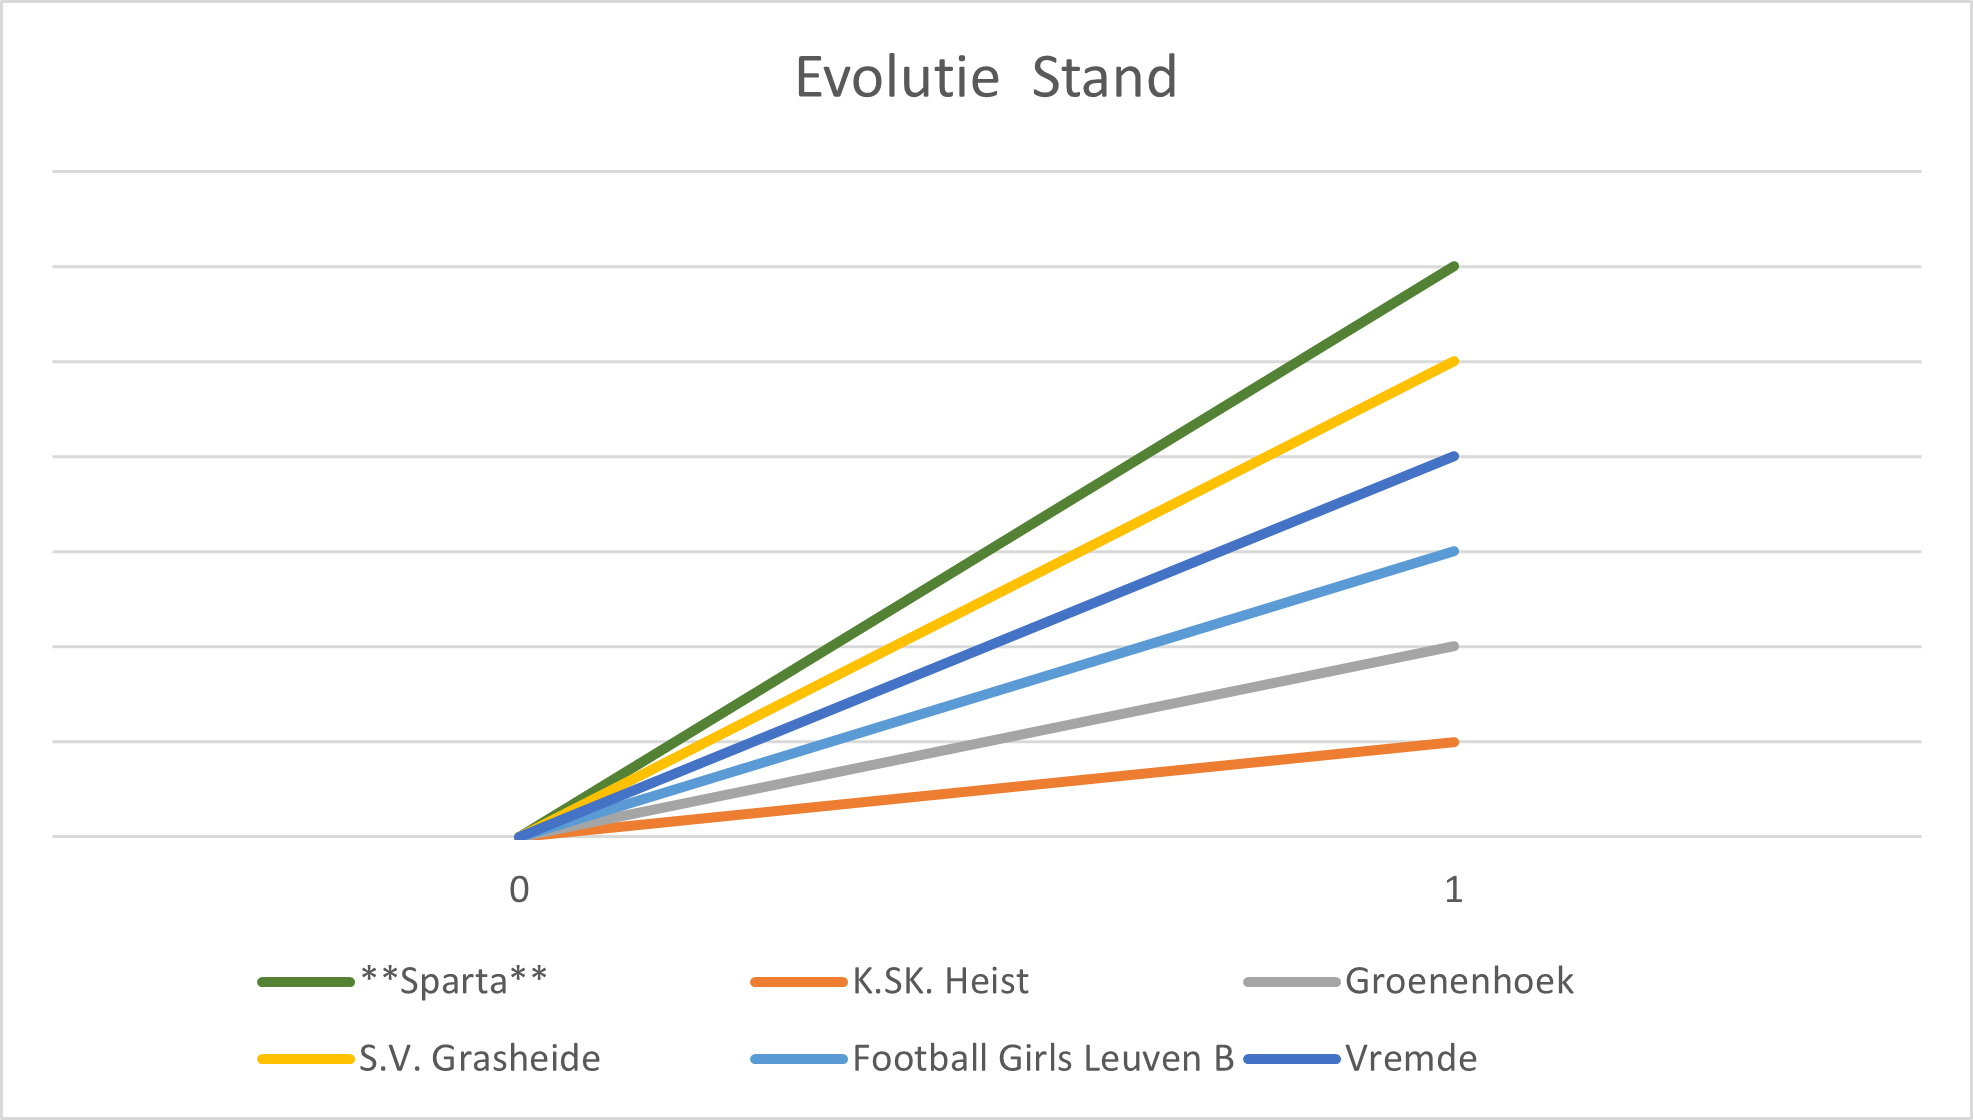
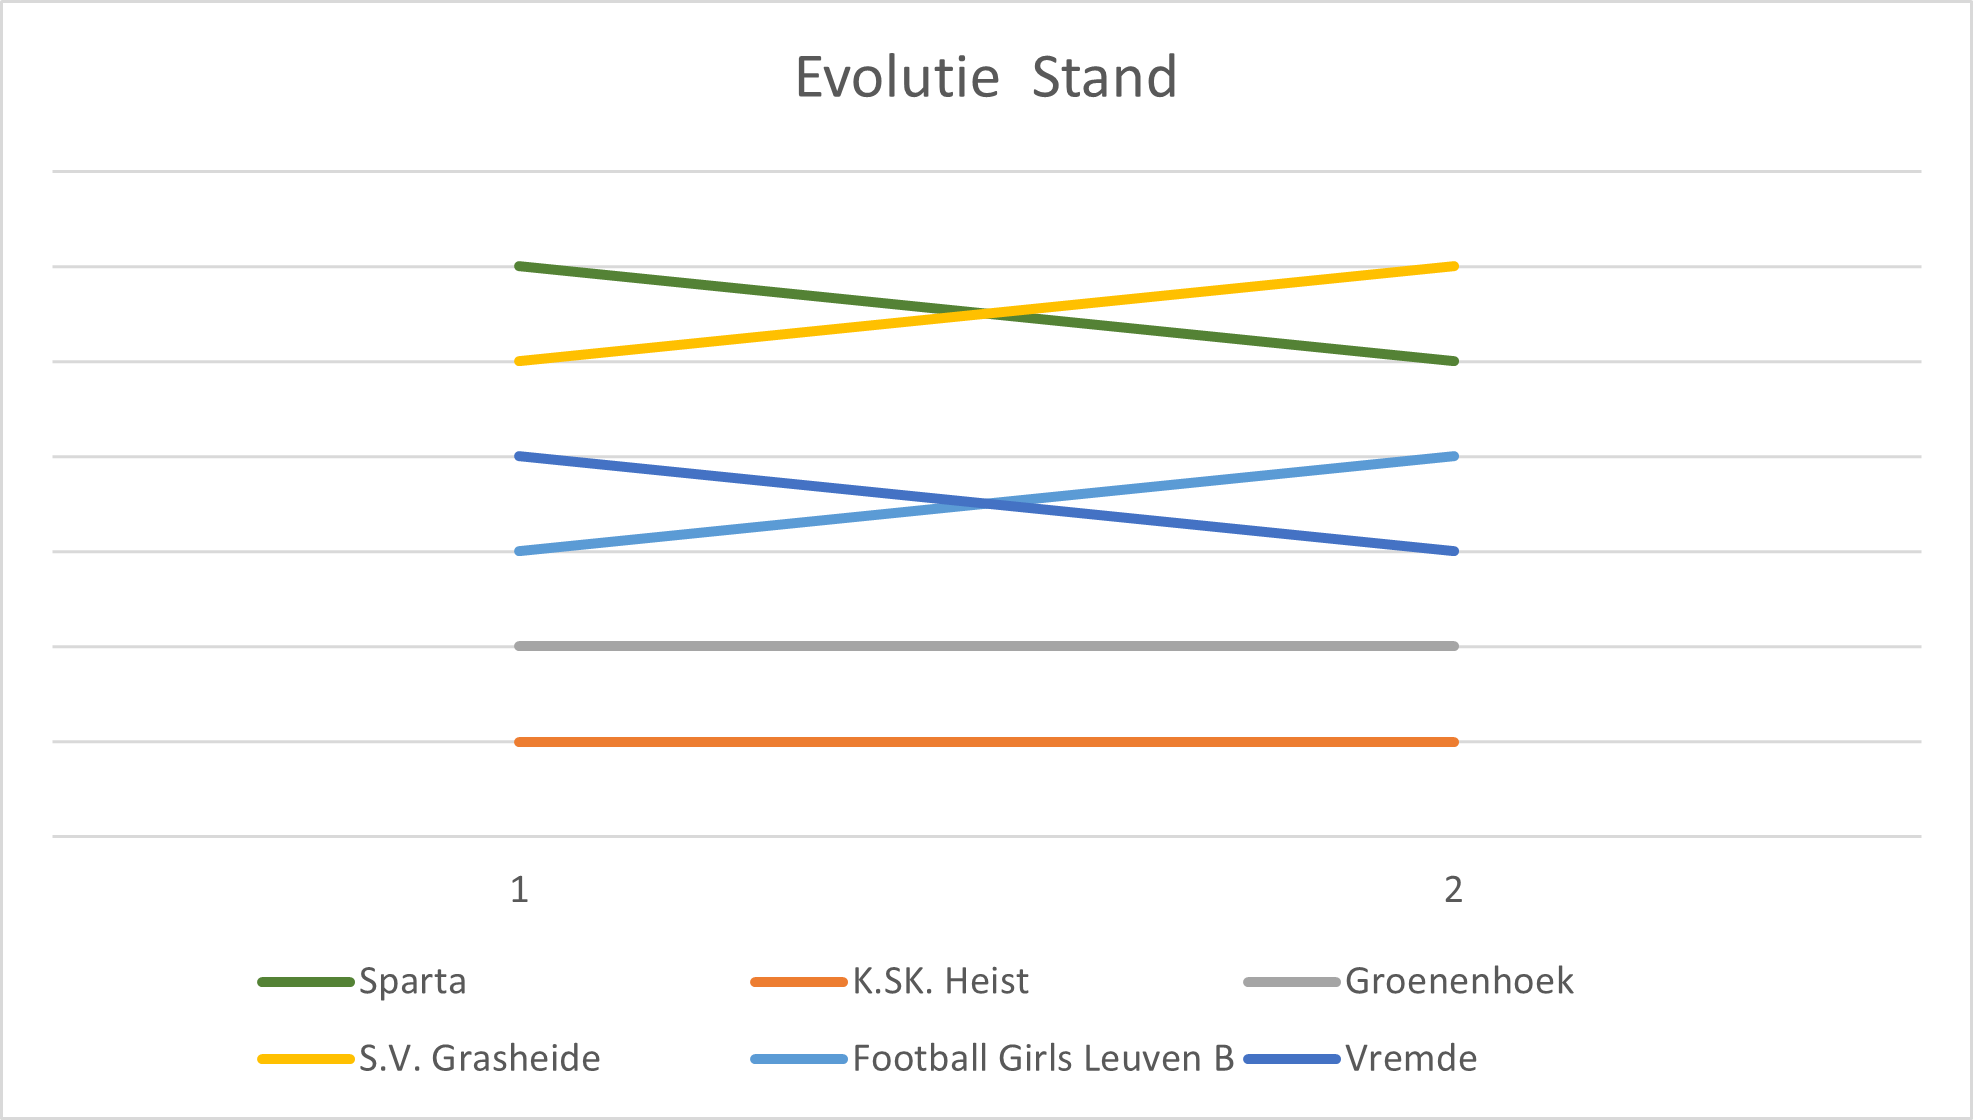
Update next match date, time, and location

Changed region(s): [[0.2473, 0.2188, 0.742, 0.75], [0.1855, 0.8438, 0.2783, 0.9062], [0.2473, 0.7812, 0.2783, 0.8125]]

diff --git a/2425/part1.md b/2425/part1.md
@@ -7,32 +7,40 @@ Op deze pagina vind je allerlei nuttige informatie & afspraken voor 2024/2025 - 
 
 ## Volgende wedstrijd info
 
-> Volgende wedstrijd is op zaterdag 7 september tegen Groenenhoek om 14.45 (13.45 ter plaatse)
+> Volgende wedstrijd is op zondag 15 september tegen Grasheide om 10.00 (09.00 ter plaatse)
+<br>[Adres](https://www.google.com/maps/dir/50.9633571,4.6060733/Galeistraat+5a,+2580+Putte/@51.0073582,4.4074975,40163m/data=!3m2!1e3!4b1!4m9!4m8!1m1!4e1!1m5!1m1!1s0x47c158867ffab109:0x94776ad0dff81be1!2m2!1d4.6506754!2d51.0401053?entry=ttu&g_ep=EgoyMDI0MDkwNC4wIKXMDSoASAFQAw%3D%3D): 
+<br>Galeistraat 5a
+<br>2580 Putte
 
 Selectie|Opmerking
----|---
-Féliz	|	
-Julia	|	
-Yanaika	|	
-Lize	|	
-Imke	|	
-Marie	|	
-Tessa	|	🍏Fruit en 🧺 Was
-Lisa	|	
-Gitte	|	
-Ella	|	
-Morane	|	
-Febe	|	
-Lore	|	🧤Keeper
-Margue	|	
-Nina	|	⭐Kapitein
+---     |---
+> Bekend vanaf woensdag
+<!-- Lore|🧤Keeper
+Morane|🍏Fruit en 🧺 Was
+Febe|
+Esmee|
+Yanaika|
+Gitte|
+Julia|
+Lize|
+Lisa|
+Imke|
+Margue|
+Nina|⭐Kapitein
+Ella|
+Marie|
+Féliz| -->
+
+
 
 Gaan niet mee|Opmerking
----|---
-Dee Dee|⚕Geblesseerd
-Esmee|⚕Geblesseerd
-Auke|⚕Geblesseerd
-Tille|⚕Geblesseerd
+---     |---
+> Bekend vanaf woensdag
+
+<!-- Auke|
+Tille|
+Tessa|
+Dee_Dee| -->
 
 <!-- 🍏Fruit en 🧺 Was
 🧤Keeper
@@ -49,7 +57,6 @@ Tille|⚕Geblesseerd
 
 Datum   | Thuis | Uit   | Tegenstander  | Dag    | Uur
 ---     |:---:  |:---:  |---            | ---    | ---
-7 sep       |        | ✅      | [Groenenhoek](https://www.google.com/maps/place/K.+Groenenhoek+Sport/@51.194683,4.455304,1250m/data=!3m1!1e3!4m6!3m5!1s0x47c3f75c716f9749:0x19f6e17c5589868f!8m2!3d51.1946832!4d4.4553041!16s%2Fg%2F11b_01r76w?hl=nl&entry=ttu&g_ep=EgoyMDI0MDkwMi4xIKXMDSoASAFQAw%3D%3D)              | zaterdag | 14.45
 15 sep      |        | ✅      | [S.V. Grasheide](https://www.google.com/maps/dir/50.9633571,4.6060733/Galeistraat+5a,+2580+Putte/@51.0025639,4.5295929,20084m/data=!3m2!1e3!4b1!4m9!4m8!1m1!4e1!1m5!1m1!1s0x47c158867ffab109:0x94776ad0dff81be1!2m2!1d4.6506754!2d51.0401053?entry=ttu&g_ep=EgoyMDI0MDkwMi4xIKXMDSoASAFQAw%3D%3D)           | zondag | 10.00
 22 sep      | ✅      |       | Football Girls Leuven B  | zondag | 10.00
 27 sep      |        | ✅      | [Vremde](https://www.google.com/maps/dir/?api=1&destination=Vremdesesteenweg%20224+2530+Boechout)                  | **vrijdag** | 20.30
@@ -68,8 +75,8 @@ Datum   | Thuis | Uit   | Tegenstander  | Dag    | Uur
 
 Datum   | Thuis | Uit   | Tegenstander  | Uitslag
 ---     |:---:  |:---:  |---            |---
-1 sep       | ✅      |       | K.SK. Heist              | 🏆**16-0**
-7 sep       |        | ✅      | Groenenhoek              | ❓
+1 sep       | ✅      |       | K.SK. Heist              | 🏆16-0
+7 sep       |        | ✅      | Groenenhoek              | ⚖1-1
 15 sep      |        | ✅      | S.V. Grasheide           | ❓
 22 sep      | ✅      |       | Football Girls Leuven B  | ❓
 27 sep      |        | ✅      | Vremde                  | ❓
@@ -94,40 +101,38 @@ Datum   | Thuis | Uit   | Tegenstander  | Uitslag
 
 Team	|	PTS	|	M	|	W	|	V	|	G	|	+	|	-	|	+/-
 ---	|	---	|	---	|	---	|	---	|	---	|	---	|	---	|	---
-**Sparta**	|	3	|	1	|	1	|	0	|	0	|	16	|	0	|	16
-S.V. Grasheide	|	3	|	1	|	1	|	0	|	0	|	5	|	2	|	3
-Vremde	|	3	|	1	|	1	|	0	|	0	|	5	|	4	|	1
-Football Girls Leuven B	|	0	|	1	|	0	|	1	|	0	|	4	|	5	|	-1
-Groenenhoek	|	0	|	1	|	0	|	1	|	0	|	2	|	5	|	-3
-K.SK. Heist	|	0	|	1	|	0	|	1	|	0	|	0	|	16	|	-16
-
-
+S.V. Grasheide	|	6	|	2	|	2	|	0	|	0	|	9	|	2	|	7
+Sparta	|	4	|	2	|	1	|	0	|	1	|	17	|	1	|	16
+Football Girls Leuven B	|	3	|	2	|	1	|	1	|	0	|	12	|	6	|	6
+Vremde	|	3	|	2	|	1	|	1	|	0	|	5	|	8	|	-3
+Groenenhoek	|	1	|	2	|	0	|	1	|	1	|	3	|	6	|	-3
+K.SK. Heist	|	0	|	2	|	0	|	2	|	0	|	1	|	24	|	-23
 
 ### Speel Schema
 
-> Vanaf oktober kunnen de niet geselecteerden meespelen bij Redavo of Dames (P2)
+> Vanaf oktober kunnen de niet geselecteerden meespelen bij All Stars of Dames (P2)
 
 Naam    | 1 sep | 7 sep | 15 sep  | 22 sep  | 27 sep  | 5 okt | 13 okt  | 20 okt  | 26 okt  | 3 nov | 10 nov  | 16 nov  | 24 nov  | 1 dec | 5 dec | ❓
 ---     |---|---|---|---|---|---|---|---|---|---|---|---|---|---|---|---  
-Auke    |✅⚕      |✅⚕      |-        |-        |-        |-      |-        |-        |-        |-      |-        |-        |-        |-      |-      |-
-Dee Dee	|✅         |✅❌      |-        |-        |-        |-      |-        |-        |-        |-      |-        |-        |-        |-      |-      |-
-Ella	  |✅      |✅      |-        |-        |-        |-      |-        |-        |-        |-      |-        |-        |-        |-      |-      |-
-Esmee	  |✅      |⚕      |-        |-        |-        |-      |-        |-        |-        |-      |-        |-        |-        |-      |-      |-
-Febe	  |✅      |✅      |-        |-        |-        |-      |-        |-        |-        |-      |-        |-        |-        |-      |-      |-
-Féliz	  |❌      |✅      |-        |-        |-        |-      |-        |-        |-        |-      |-        |-        |-        |-      |-      |-
-Gitte	  |✅      |✅      |-        |-        |-        |-      |-        |-        |-        |-      |-        |-        |-        |-      |-      |-
-Imke	  |❌      |✅      |-        |-        |-        |-      |-        |-        |-        |-      |-        |-        |-        |-      |-      |-
-Julia	  |❌      |✅      |-        |-        |-        |-      |-        |-        |-        |-      |-        |-        |-        |-      |-      |-
-Lisa	  |✅      |❌✅      |-        |-        |-        |-      |-        |-        |-        |-      |-        |-        |-        |-      |-      |-
-Lize	  |✅      |✅      |-        |-        |-        |-      |-        |-        |-        |-      |-        |-        |-        |-      |-      |-
-Lore	  |✅      |✅      |-        |-        |-        |-      |-        |-        |-        |-      |-        |-        |-        |-      |-      |-
-Margue	|✅         |❌✅      |-        |-        |-        |-      |-        |-        |-        |-      |-        |-        |-        |-      |-      |-
-Marie	  |❌✅     |✅      |-        |-        |-        |-      |-        |-        |-        |-      |-        |-        |-        |-      |-      |-
-Morane	|✅         |❌✅      |-        |-        |-        |-      |-        |-        |-        |-      |-        |-        |-        |-      |-      |-
-Nina	  |✅      |✅      |-        |-        |-        |-      |-        |-        |-        |-      |-        |-        |-        |-      |-      |-
-Tessa	  |✅      |✅      |-        |-        |-        |-      |-        |-        |-        |-      |-        |-        |-        |-      |-      |-
-Tille	  |✅      |✅⚕      |-        |-        |-        |-      |-        |-        |-        |-      |-        |-        |-        |-      |-      |-
-Yanaika	|✅      |✅      |-        |-        |-        |-      |-        |-        |-        |-      |-        |-        |-        |-      |-      |-
+Auke    |✅⚕ |✅❌      |-        |-        |-        |-      |-        |-        |-        |-      |-        |-        |-        |-      |-      |-
+Dee Dee	|✅   |✅❌      |-        |-        |-        |-      |-        |-        |-        |-      |-        |-        |-        |-      |-      |-
+Ella	  |✅   |✅      |-        |-        |-        |-      |-        |-        |-        |-      |-        |-        |-        |-      |-      |-
+Esmee	  |✅   |⚕      |-        |-        |-        |-      |-        |-        |-        |-      |-        |-        |-        |-      |-      |-
+Febe	  |✅   |✅      |-        |-        |-        |-      |-        |-        |-        |-      |-        |-        |-        |-      |-      |-
+Féliz	  |❌   |✅      |-        |-        |-        |-      |-        |-        |-        |-      |-        |-        |-        |-      |-      |-
+Gitte	  |✅   |✅      |-        |-        |-        |-      |-        |-        |-        |-      |-        |-        |-        |-      |-      |-
+Imke	  |❌   |✅      |-        |-        |-        |-      |-        |-        |-        |-      |-        |-        |-        |-      |-      |-
+Julia	  |❌   |✅      |-        |-        |-        |-      |-        |-        |-        |-      |-        |-        |-        |-      |-      |-
+Lisa	  |✅   |❌✅      |-        |-        |-        |-      |-        |-        |-        |-      |-        |-        |-        |-      |-      |-
+Lize	  |✅   |✅      |-        |-        |-        |-      |-        |-        |-        |-      |-        |-        |-        |-      |-      |-
+Lore	  |✅   |✅      |-<!--✅-->|-        |-        |-      |-        |-        |-        |-      |-        |-        |-        |-      |-      |-
+Margue	|✅   |❌✅      |-        |-        |-        |-      |-        |-        |-        |-      |-        |-        |-        |-      |-      |-
+Marie	  |❌✅ |✅      |-        |-        |-        |-      |-        |-        |-        |-      |-        |-        |-        |-      |-      |-
+Morane	|✅   |❌✅      |-<!--✅-->|-        |-        |-      |-        |-        |-        |-      |-        |-        |-        |-      |-      |-
+Nina	  |✅   |✅      |-        |-        |-        |-      |-        |-        |-        |-      |-        |-        |-        |-      |-      |-
+Tessa	  |✅   |✅      |-        |-        |-        |-      |-        |-        |-        |-      |-        |-        |-        |-      |-      |-
+Tille	  |✅   |✅⚕      |-        |-        |-        |-      |-        |-        |-        |-      |-        |-        |-        |-      |-      |-
+Yanaika	|✅   |✅      |-        |-        |-        |-      |-        |-        |-        |-      |-        |-        |-        |-      |-      |-
 
 ### Fruit & Was Schema
 
